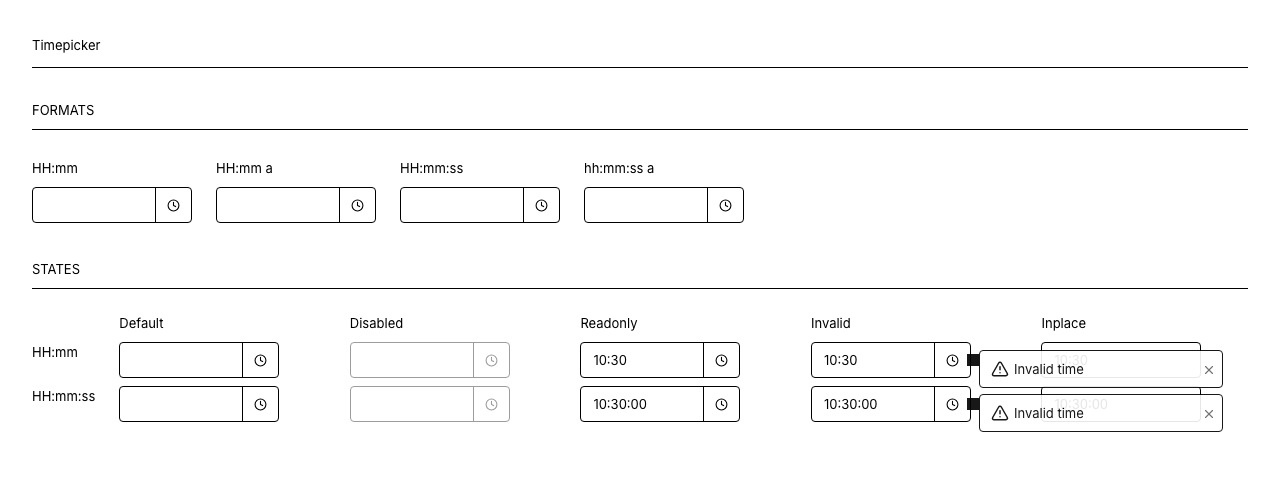
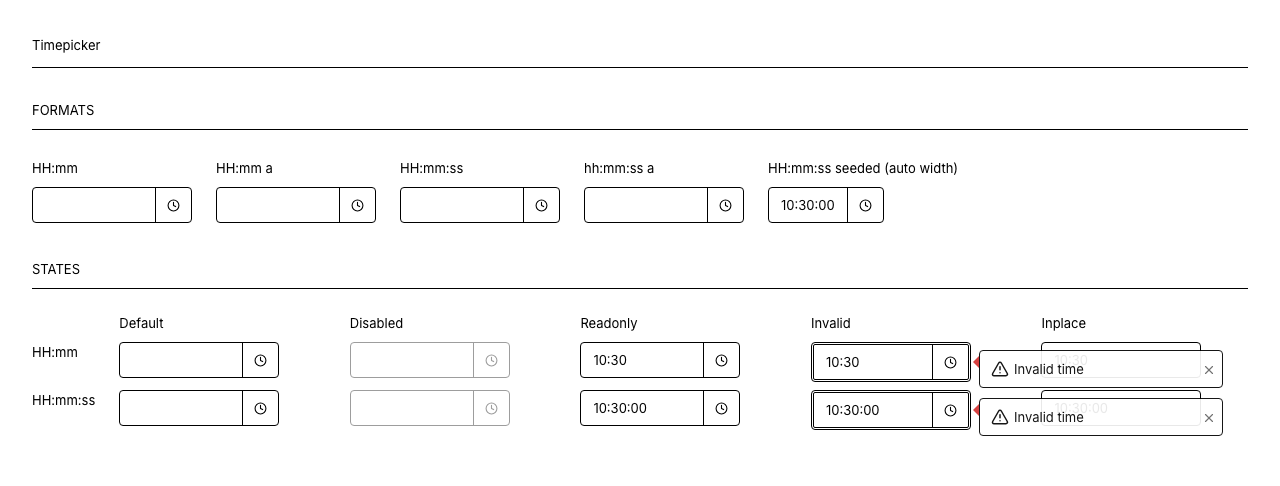
theme(timepicker): content-fit input to stop clipping long time formats
Similar-case sweep of the datebox/timebox content-fit fix. timepicker is a
fixed-format, readonly time field, but ZK hardcodes the input at size="5"
(fits HH:mm only), so under the old .z-timepicker-input { flex:1; min-width:0 }
with no field-sizing an HH:mm:ss value ("10:30:00") was clipped (scrollWidth
79 > clientWidth 66) whenever the root had no explicit width. Every preview
cell masked it with width="160px".

Fix mirrors timebox: flex:1 1 auto + field-sizing:content + min-width:5em, so
the input hugs its time and grows to fit longer formats (width-forced roots
still fill). Readonly (value picked from popup) => no keystroke jitter. Add a
seeded auto-width HH:mm:ss preview cell exposing the clip + the first
timepicker Playwright describe block (content-fit/no-clip guard), proven
RED->GREEN. Regenerate timepicker-forced-colors baseline for the new cell.

diff --git a/src/test/playwright/screenshot.spec.ts b/src/test/playwright/screenshot.spec.ts
@@ -644,6 +644,42 @@ test.describe('timebox', () => {
 });
 
 // -------------------------------------------------------
+// TimePicker
+// -------------------------------------------------------
+test.describe('timepicker', () => {
+  test.beforeEach(async ({ page }) => {
+    await page.goto('/timepicker.zul');
+    await page.waitForLoadState('networkidle');
+    await page.evaluate(() => document.fonts.ready.then(() => true));
+  });
+
+  // gap 2026-07-20 (similar-case sweep of the datebox/timebox content-fit fix):
+  // timepicker is a fixed-format, readonly time field but ZK hardcodes the input at
+  // size="5" (fits HH:mm only). Under the old `flex:1;min-width:0` with no field-sizing,
+  // an HH:mm:ss value ("10:30:00") CLIPS (scrollWidth > clientWidth) whenever the root
+  // isn't given an explicit width — every preview cell masked it with width="160px".
+  // pv/timepicker-content.zul adds one seeded auto-width HH:mm:ss cell to expose it.
+  // Fix mirrors timebox: field-sizing:content lets the input hug/grow to its time.
+  // Readonly (value picked from popup, not typed) → no per-keystroke jitter. RED before
+  // the fix (auto-width cell clipped), GREEN after. Order-independent: no seeded input
+  // may clip, and all must report field-sizing:content.
+  test('input hugs its time content (field-sizing, no clip)', async ({ page }) => {
+    const info = await page.evaluate(() => {
+      const seeded = ([...document.querySelectorAll('.z-timepicker-input')] as HTMLInputElement[])
+        .filter(i => i.value && (i as HTMLElement).offsetParent !== null);
+      return {
+        count: seeded.length,
+        allContentSized: seeded.every(i => getComputedStyle(i).getPropertyValue('field-sizing') === 'content'),
+        clippedValues: seeded.filter(i => i.scrollWidth > i.clientWidth + 1).map(i => i.value),
+      };
+    });
+    expect(info.count, 'at least one seeded timepicker must be present').toBeGreaterThan(0);
+    expect(info.allContentSized, 'field-sizing: content must be applied to timepicker inputs').toBe(true);
+    expect(info.clippedValues, `timepicker times must not be clipped, clipped: ${JSON.stringify(info.clippedValues)}`).toEqual([]);
+  });
+});
+
+// -------------------------------------------------------
 // Spinner
 // -------------------------------------------------------
 test.describe('spinner', () => {

diff --git a/src/main/resources/web/js/zkmax/inp/css/timepicker.css b/src/main/resources/web/js/zkmax/inp/css/timepicker.css
@@ -55,9 +55,19 @@
 }
 
 /* ─── Input ────────────────────────────────────────────────────────────────── */
+/* Content-hug (similar-case sweep of the datebox/timebox content-fit fix; see
+   components/combo-trio.md). ZK hardcodes this input at size="5" (fits HH:mm only);
+   under the old `flex:1;min-width:0` an HH:mm:ss value like "10:30:00" was CLIPPED
+   whenever the root had no explicit width. `field-sizing: content` lets the input hug
+   its time and grow to fit longer formats (no clip). `flex: 1 1 auto` (basis = content)
+   still lets a width-forced field fill its container. The `min-width` floor keeps an
+   empty field a usable target. The input is readonly (value picked from the popup, not
+   typed) so there is no per-keystroke jitter. Degrades to the prior look where
+   `field-sizing` is unsupported. */
 .z-timepicker-input {
-    flex: 1;
-    min-width: 0;
+    flex: 1 1 auto;
+    field-sizing: content;
+    min-width: 5em;
     border: none;
     background: transparent;
     padding: 0 var(--zk-spacing-3);

diff --git a/doc/skill-gaps.md b/doc/skill-gaps.md
@@ -302,3 +302,4 @@ Append-only record of ZK features that the harness missed and how we structurall
 | 2026-07-15 | coachmark (close button) | Designer review of the top-right close `×`: it renders as a bare 16×16 glyph (no hit target, no hover state layer, no focus ring) sitting at an **asymmetric** corner inset — 4px inside the content top but 8px inside the right — so it reads as unfinished and "positioned oddly". Root cause of the asymmetry: the close is `position:absolute` against the `.z-coachmark` **root**, and ZK injects **20px** padding on the pointer side of the root (`Coachmark.ts` `_fixPadding`: `ph = 10 + borderHeight/2 = 10 + 10`, pointer border hardcoded 10px). The theme's pointer-side compensation bump was **`+16px` — 4px short of 20px**, so on a pointer-up/right card the close lands 4px (not 8px) inside the content edge. Separately the close was never given the theme's icon-button affordance. | MD3 rich-tooltip guidance prescribes *action buttons*, not a corner `×`, so no reference ever specified the close affordance or its inset; the contract asserted the close's existence/corner-pinning (M3) and colour (c10) but never its **size**, **shape (circular)**, **hover state layer**, **focus ring**, or **symmetric inset**; and the `+16px` bump was copied from ZK's default without checking it against the 20px the JS actually injects. A rest-vs-settled geometry probe can't flag "feels cramped" — only a designer's eye + an explicit symmetric-inset assertion catches it. | skill + contract + impl + test | CSS `js/zkmax/nav/css/coachmark.css` (`.z-coachmark-close` → `--zk-control-height-xs` circular target, flex-centered, `surface-container` hover state layer, `--zk-focus-ring` on `:focus-visible`; pointer bumps `+16px`→`calc(spacing-2 + spacing-5)` = 20px; content `padding-right` reserves 44px for the 28px circle); Skill `.claude/skills/zk-component-rules/components/coachmark.md` (record: root gets 20px JS-injected padding on the pointer side → close pointer-side offset compensation MUST be 20px, and the close should reuse the theme icon-button affordance); Contract `doc/contracts/coachmark.{md,html}` (new close expected values + outcome assertion for circular affordance + symmetric 8px content-corner inset); Test `screenshot.spec.ts › coachmark › close button is a circular icon-button target with symmetric corner inset`. | Fixed & verified red→green. Two guards added: `close button is a circular icon-button target with symmetric corner inset` (failed on the old build — width 16<24, and 4px/8px asymmetric inset — passes now: 28px circle, radius 9999px, 8px/8px inset) and `close button shows a hover state layer` (old build had no `::before` → rest opacity 1≠0; now 0→0.08 on hover). Live re-measure: close 28×28, `border-radius:9999px`, `top/right` insets 8px/8px, card `padding` `16px 44px 16px 16px`; hover paints the on-surface `::before` state layer, `:focus-visible` shows the primary ring. Sibling sweep: combobutton + tour-step coachmarks on the page all render pointer-up with the same symmetric 8px/8px inset; pointer-down/left inject padding away from the top-right corner (no bump needed) and pointer-right reuses the same +20px, so all four directions land symmetric by construction (`_fixPadding` injects a uniform `pw=ph=20px`). Full chromium suite 118/118 green; coachmark group stable 9/9 over `--repeat-each=3`. Mockup `coachmark.html` regenerated to match; `contract-approved` flipped to false pending re-approval of the close-affordance change. |
 | 2026-07-20 | daterangebox | The input shows large symmetric left/right whitespace around the date and the whole field is ~2× datebox width (measured: root 398.6px, each input 172px, value "Jan 10, 2025" ≈ 78px centered → ~35px gutter/side). Root cause is **NOT padding** (both daterangebox & datebox use `padding: 0 12px` = `--zk-spacing-3`): `.z-daterangebox-input` has `text-align: center` + `flex: 1` and the two `<input>`s carry no `size`/`width` (ZK `Daterangebox.ts` `redraw()` writes only class/aria/placeholder/autocomplete), so each falls back to the UA-default ~20ch (~172px) intrinsic width and the short date sits centered with wide gutters. datebox is single + left-aligned, so its gutter is one-sided and far less visible. | The contract asserted the input's centered text (Design prose) and font-size (c5) but **never constrained input width or the gutter**; MD3/MUI has no two-input date-range analog (MUI `SingleInputDateRangeField` is one left-aligned `OutlinedInput` at 14px padding), so no width target was ever measured; and daterangebox had **no Playwright `describe` block at all** — only a render-smoke 200-check — so nothing could observe the width. | skill + contract + impl + test | CSS `js/zkmax/db/css/daterangebox.css` (`.z-daterangebox-input`: `flex:1`→`flex:0 1 auto`, add `field-sizing:content`, `min-width:0`→date-fit floor so inputs hug their content instead of the UA ~20ch default); Skill `.claude/skills/zk-component-rules/components/daterangebox.md` (record: the two inputs ship with no `size`/`width`, so a theme MUST bound their width or each renders ~20ch and, centered, shows large symmetric gutters); Contract `doc/contracts/daterangebox.md` (new outcome M-row: a seeded `.z-daterangebox-input` bbox width is content-fitted, <130px; new Expected-value row for `field-sizing`); Test `screenshot.spec.ts › daterangebox › input hugs its date content (not the UA ~20ch default)`. | Fixed & verified red→green on /daterangebox.zul. The guard failed on the old build (seeded begin input **172px** > 130px) and passes now (**102.4px**; `field-sizing: content`, `min-width` floor `84.5px` = 6.5em). Root width **398.6px→258.9px** (−35%); empty field 398px→223.6px. Live screenshot confirms seeded ranges read compactly with no clipping and the `showTime` variant auto-widens for the time text. Full date family green (7/7: datebox timezone/open-state/gallery/hover/focus + daterangebox). **Sibling sweep — no code change:** datebox/combobox/bandbox/timebox/spinner are single-input, and combobox/bandbox are free-text where content-hug would jitter per keystroke; datebox is the user's stated reference baseline, so the fix is intentionally scoped to daterangebox only. `field-sizing` degrades to the prior ~20ch look where unsupported (no regression). |
 | 2026-07-20 | datebox, timebox | DateBox does **NOT** hug its content either. `.z-datebox-input` uses `flex: 1; min-width: 0` (grow-to-fill) with **no** `field-sizing`/width/`min-width` floor, and ZK emits the input size-less (`InputWidget._cols=0` → `ComboWidget.redraw_` writes only class/aria/autocomplete). In practice `flex:1;min-width:0` collapsed the input to a **fixed ~108px** that ignored content — empty, short date and long-format date all rendered the same width — and **clipped** long formats (`yyyy/MM/dd HH:mm` "2025/01/15 00:00" → scrollWidth 132 > clientWidth 108, measured). TimeBox shares the identical collapse. **This corrects the 2026-07-20 daterangebox row's premise** that "datebox is the content-hugging reference baseline" — datebox never hugged (it uses a fixed collapse, not content-fit). The over-wide *symmetric gutters* were daterangebox-specific (two centered inputs at ~172px); datebox's own defect is the content-insensitive fixed width plus the long-format clipping (NOT a 172px over-width — a bare datebox shrink-wraps to ~146px root / ~108px input). | No datebox/timebox contract or DESIGN.md rule ever constrained or measured input width — both contracts just delegate to combobox c1–c8 metrics, none of which cover width. MUI's single date/text field has no content-hug analog (it fills its container / UA width, left-aligned), so no width target was ever derivable from the reference. And the defect was masked by left-alignment: one-sided trailing whitespace reads as "a normal-width field", so no screenshot review flagged it — the daterangebox fix even codified the wrong premise into its sibling-sweep note. | skill + spec (DESIGN.md) + contract + impl + test | CSS `js/zul/inp/css/datebox.css` + `js/zul/inp/css/timebox.css` (`.z-{datebox,timebox}-input`: `flex:1;min-width:0` → `flex:1 1 auto; field-sizing:content; min-width` date/time-fit floor — basis=content hugs in an auto context yet still fills an `hflex`/width-forced root, unlike daterangebox's `flex:0 1 auto`); Skill `.claude/skills/zk-component-rules/components/combo-trio.md` (family-level: all combo-trio inputs ship size-less → a theme MUST set an input-width policy); Spec `doc/spec/DESIGN.md §10` (theme policy — content-hug fixed-format date/time fields; keep free-text combobox/bandbox + numeric spinner at UA-default/fill to avoid per-keystroke jitter); Contract `doc/contracts/{datebox,timebox}.md` (new outcome M-row: seeded `.z-{comp}-input` bbox width content-fitted <130px/<120px; new Expected-value rows for `field-sizing` + `flex`/`min-width`); Preview `pv/{datebox,timebox}-content.zul` (add a seeded plain instance to measure); Test `screenshot.spec.ts › datebox › input hugs its date content` + `› timebox › input hugs its time content`. **Sibling sweep — no code change:** free-text combobox/bandbox (content-hug jitters per keystroke) + numeric spinner (variable length) intentionally excluded; daterangebox already done. | Fixed & verified red→green on /datebox.zul + /timebox.zul. Guards failed pre-fix (computed `field-sizing: fixed`; datebox long-format clipped, long == short width) and pass after (`field-sizing: content`; long not clipped, long > short). **Empirical re-measure corrected the premise:** a bare datebox was never 172px — the old `flex:1;min-width:0` collapsed it to a fixed ~146px root / ~108px input regardless of content and clipped `yyyy/MM/dd HH:mm` (scrollW 132 > clientW 108). After the fix: short 108→102px, empty 108→85px (6.5em floor), long 108→132px (no clip); an `hflex=1` datebox still fills its container (362px in a 400px parent), so form layouts are unaffected. Recipe uses `flex:1 1 auto` (not daterangebox's `0 1 auto`) precisely to preserve hflex fill. Full date family green (datebox/daterangebox/timebox). |
+| 2026-07-20 | timepicker | Similar-case sweep of the datebox/timebox content-fit fix: **timepicker also clips**. It's a fixed-format, readonly time field, but ZK **hardcodes the input at `size="5"`** (fits `HH:mm` only). Under the old `.z-timepicker-input { flex:1; min-width:0 }` with no `field-sizing`, an `HH:mm:ss` value ("10:30:00") is **clipped** (`scrollWidth 79 > clientWidth 66`, measured) whenever the root has no explicit width — every preview cell masked it with `width="160px"`. | timepicker had **no Playwright `describe` block at all** (zero geometry coverage); the datebox/timebox sibling-sweep note enumerated datebox/combobox/bandbox/timebox/spinner but **never listed timepicker** (a separate `zkmax/inp` component/file); and every preview instance forced `width="160px"`, hiding the clip from screenshot review. | impl + preview + test | CSS `js/zkmax/inp/css/timepicker.css` (`.z-timepicker-input`: `flex:1;min-width:0` → `flex:1 1 auto; field-sizing:content; min-width:5em` — mirrors timebox; readonly input → no keystroke jitter); Preview `pv/timepicker-content.zul` (add one seeded **auto-width** `HH:mm:ss` cell that exposes the clip); Test `screenshot.spec.ts › timepicker › input hugs its time content (field-sizing, no clip)` (new describe block — order-independent: no seeded input may clip, all must report `field-sizing:content`). | Fixed & verified red→green on /timepicker.zul. RED: input `field-sizing: fixed`; the auto-width `HH:mm:ss` cell clipped (`size="5"` → clientW 66 < scrollW 79). GREEN: `field-sizing: content`; that cell now hugs its value (rootW 116px, no clip); all 7 seeded inputs content-sized, none clip; the `width="160px"` instances still fill (`flex:1 1 auto`). Date/time family 14/14 green; `timepicker-forced-colors` baseline regenerated for the new cell (`timepicker-gallery` unchanged within tolerance). **Found via** the similar-cases audit (`tasks/content-fit-similar-cases-audit.md`): combobox/bandbox/chosenbox (free-text) + spinner/doublespinner (numeric) correctly excluded (content-hug would jitter); colorbox/paging/listbox use by-design fixed widths. |
